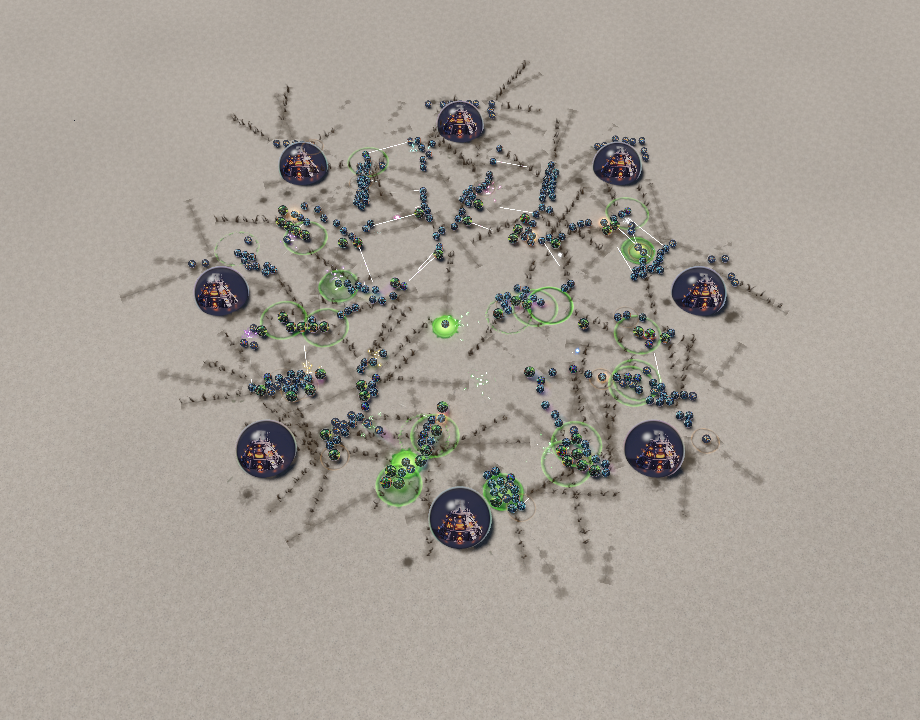
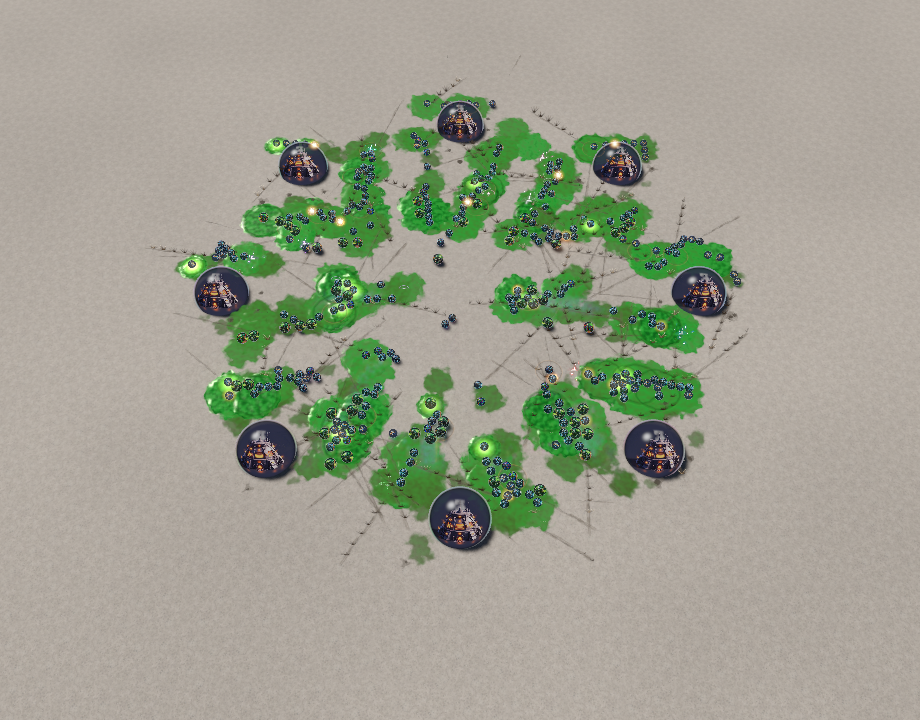
fix(effects): round-3 slice passes its footprint and coverage tests; lavapipe goldens
- acid_burst: the stain (now Critical) is sized to the reach, so the critical
  footprint stays within it.
- spine_line: a short heave of churned soil over each point's full-damage disc
  (erodes within 0.7 s) restores the coverage the scar alone lacked; scar and
  fissure last 2.3 s and 2.5 s so the line's marks still hold after the spines.
- decal end feather: 60 % beyond the line's end, so a mark is about two thirds
  strong at the end itself.
- Goldens re-recorded on lavapipe for all three effects (cause: the round-3
  looks; the shell's darker char core), with the contact sheets of the same
  data; the crowd capture's legend records how round 3 was taken.

Claude-Session: https://claude.ai/code/session_01Tj7a5XZ4mBxWXnyoUg8xVU

diff --git a/crates/client/src/effects/catalog/schema.rs b/crates/client/src/effects/catalog/schema.rs
@@ -408,8 +408,8 @@ pub enum BlockDef {
         /// so segments longer than their spacing still end exactly at the line's ends.
         #[serde(default)]
         clip_to_line: bool,
-        /// World units over which a mark cut off at the line's ends feathers out, centred on
-        /// each end (half the fade lies inside the line, half beyond it), at least 0.005.
+        /// World units over which a mark cut off at the line's ends feathers out across each end
+        /// (60 % of the fade beyond the end, 40 % inside the line), at least 0.005.
         #[serde(default = "default_clip_feather")]
         clip_feather: f32,
         /// Noise breakup of the erosion and edges.

diff --git a/crates/client/src/effects/instances.rs b/crates/client/src/effects/instances.rs
@@ -154,7 +154,7 @@ pub struct DecalInstance {
     pub noise_layer: u32,
     /// World XZ direction the mark is clipped along; zero for no clip.
     pub clip_axis: [f32; 2],
-    /// World units over which a clipped mark feathers out, centred on each clip end.
+    /// World units over which a clipped mark feathers out, across each clip end (60 % of it beyond the end).
     pub clip_feather: f32,
     /// Liquid relief: slope scale of the thickness field lit as a wet surface; 0 for none.
     pub relief: f32,

diff --git a/crates/client/src/effects/catalog/mod.rs b/crates/client/src/effects/catalog/mod.rs
@@ -159,7 +159,7 @@ pub struct DecalLook {
     pub width: f32,
     /// Whether the mark is cut off at the line's ends.
     pub clip_to_line: bool,
-    /// World units over which a clipped mark feathers out, centred on each end.
+    /// World units over which a clipped mark feathers out, across each end (60 % of it beyond the end).
     pub clip_feather: f32,
     /// Noise breakup.
     pub breakup: Option<Breakup>,

diff --git a/docs/evidence/effects/review/independent_review_packet.md b/docs/evidence/effects/review/independent_review_packet.md
@@ -26,10 +26,10 @@ commit `d03ed19`, round 1's in `bb5a61c`.
 | 4b: sparse, one or two spines per point | Each point has its clump (three to five spikes) plus two single straight spikes leaning out beside it (up to ±26°), a frame later: four to seven spikes per point. |
 | Ranked change 1: taller, 0.6–0.9 units | The clump card is sized to the spacing (1 unit) with ±15 % jitter, and the spikes stand about 0.6 to 0.9 units tall at the default binding; the single spikes are smaller (0.6 of the clump). |
 | 5 / ranked change 2: no focal point; newest clump no brighter; tips not visible | The newest clump is lit for its first two to three frames: its ramp input is raised to 2.4× (the dark umber body goes to warm bone and the tips and the lit left edges to bone-ivory), easing back to its own colours by about 0.2 s after it breaks the ground. A short, light dust burst (pale, about 0.3 s) rises at each eruption. The tips stay paler than the bodies on every spike. |
-| 4c / ranked change 3: hard straight cut at both ends of the churned earth and fissure | Every ground mark of the line (scar, fissure, cracks) **feathers over 0.3 units at each end**, centred on the end (half the fade inside the line, half beyond), instead of the 0.015-unit cut. Nothing is drawn before the first search point's feather (the first point lies 1.0 from the attacker's centre). |
-| 4d / ranked change 3: leftover marks alternate stars and donut rings at exactly 1-unit spacing | The churned earth is a new texture, a ragged furrow of torn earth, stretched along the line (each piece about 1.9 units long, 1 unit apart, scattered and of its own size), so the pieces merge into **one continuous broken scar** of uneven width. The crack bursts are now two narrow, elongated ruptures (the donut-shaped torn hole and the radial star are dropped), scattered off the line by up to 0.25, randomly turned, ±40 % in size, and gone by 1.5 s, before the scar. |
+| 4c / ranked change 3: hard straight cut at both ends of the churned earth and fissure | Every ground mark of the line (scar, fissure, cracks) **feathers over 0.3 units at each end** across the end (60 % of the fade beyond it, so the mark is still about two thirds strong at the end), instead of the 0.015-unit cut. Nothing is drawn more than 0.18 before the first search point (which lies 1.0 from the attacker's centre), and that last 0.18 is the faint tip of the fade. |
+| 4d / ranked change 3: leftover marks alternate stars and donut rings at exactly 1-unit spacing | The churned earth is a new texture, a ragged furrow of torn earth, stretched along the line (each piece about 1.9 units long, 1 unit apart, scattered and of its own size), so the pieces merge into **one continuous broken scar** of uneven width. The crack bursts are now two narrow, elongated ruptures (the donut-shaped torn hole and the radial star are dropped), scattered off the line by up to 0.25, randomly turned, ±40 % in size, and gone by 1.5 s, before the scar. Each eruption also heaves a noise-broken patch of soil over its full-damage disc, which erodes away within 0.7 s, so the point that is hit reads at once without leaving a row of patches. |
 | 4e: dust puffs pale flat blobs on teal | The settling dust is fainter (opacity 0.22 to 0.38, was 0.35 to 0.55) and darker; the new light dust burst is short and small. |
-| Crowd note (b): the churned earth reads as dirt over the whole battlefield | The scar is lighter (opacity 0.34 to 0.52, was 0.45 to 0.62) and shorter-lived (2.0 s, was 2.4 s); the fissure lasts 2.2 s (was 2.6 s). |
+| Crowd note (b): the churned earth reads as dirt over the whole battlefield | The scar is lighter (opacity 0.34 to 0.52, was 0.45 to 0.62) and a little shorter-lived (2.3 s, was 2.4 s); the fissure lasts 2.5 s (was 2.6 s), so the marks still state the line once the spines have sunk. |
 
 ### `acid_burst`
 
